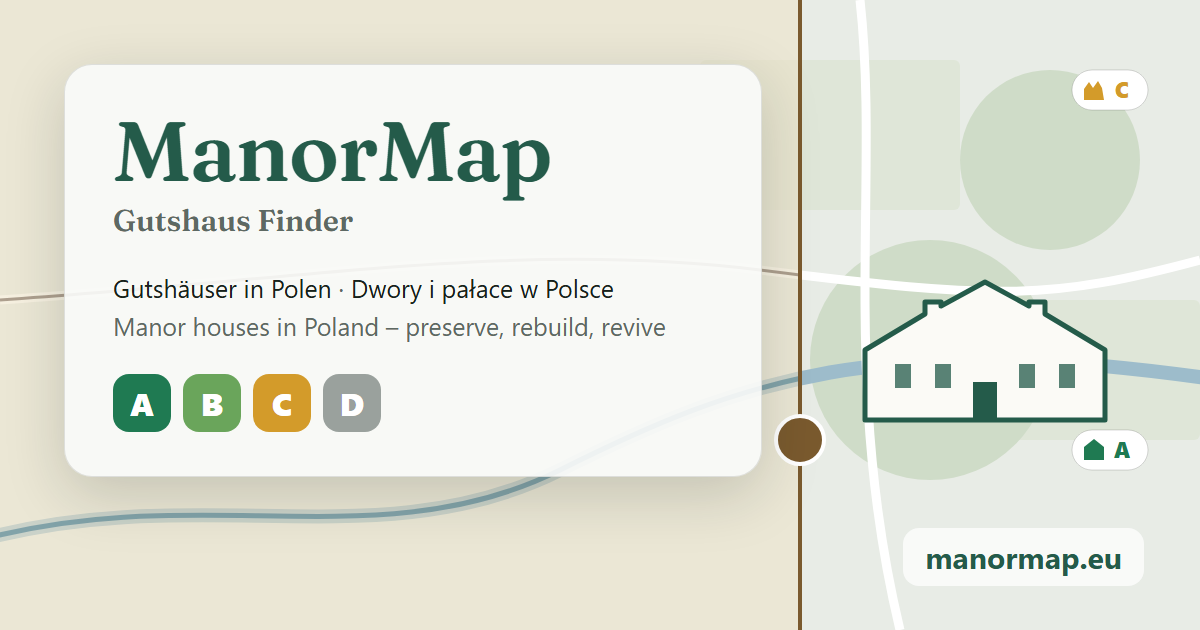
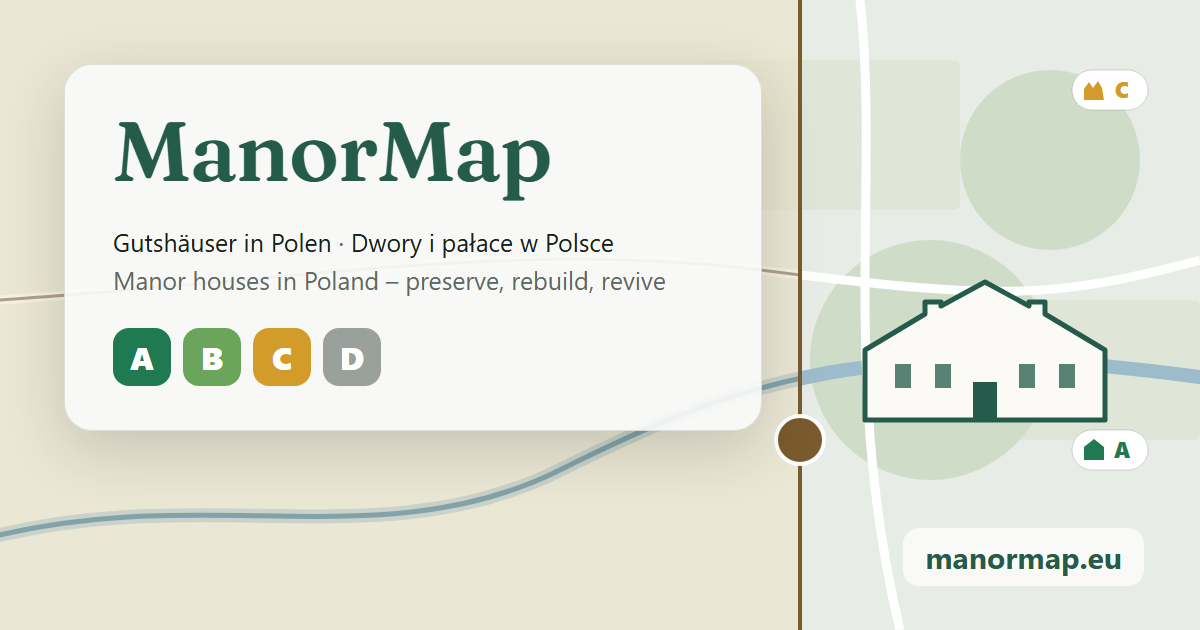
Brand: ManorMap in every language
Drops SITE_NAME_DE ("Gutshaus Finder"): site title, share title, og image,
review/index pages and the CLI all say ManorMap. The publish note about buy
buttons only appears when the shop is switched on.

Changed region(s): [[0.0308, 0.5127, 0.6475, 0.754], [0.0925, 0.3317, 0.555, 0.4825]]

diff --git a/gutshaus/site_template.html b/gutshaus/site_template.html
@@ -7,7 +7,7 @@
 <meta name="description" content="Gutshäuser in Polen bewahren, wiederaufbauen, neu beleben: Karte mit Noten für Sanierung und Wiederaufbau. Dwory i pałace w Polsce. Manor houses in Poland.">
 <meta property="og:type" content="website">
 <meta property="og:site_name" content="ManorMap">
-<meta property="og:title" content="ManorMap – Gutshaus Finder">
+<meta property="og:title" content="ManorMap">
 <meta property="og:description" content="Gutshäuser in Polen bewahren, wiederaufbauen, neu beleben · Dwory i pałace w Polsce · Manor houses in Poland">
 <meta property="og:url" content="__SITE_URL__/">
 <meta property="og:image" content="__SITE_URL__/og.png">
@@ -298,7 +298,7 @@ const T = {
 };
 // texts of the redesign (merged into T above)
 const T2 = {
- de:{share:"Teilen",copied:"Link kopiert",shareTitle:"{place} – Gutshaus Finder",offerPartial:" (davon {f} im Kataster gefunden und gezeichnet)",offerArea1:"1 Flurstück, {ha} ha – auf der Karte blau gestrichelt",offerArea:"{n} Flurstücke, {ha} ha – auf der Karte blau gestrichelt",dragHint:"Linie auf der Karte ziehen",tenderPast:"Der Ausschreibungstermin laut KOWR ({d}) ist vorbei; den nächsten Termin bei KOWR erfragen.",filtersBtn:"Filter & Liste",gradeF:"Note",close:"Schließen",cmpOn:"Damals & heute vergleichen",cmpOff:"Vergleich beenden",then:"Messtischblatt",now:"heute",
+ de:{share:"Teilen",copied:"Link kopiert",shareTitle:"{place} – ManorMap",offerPartial:" (davon {f} im Kataster gefunden und gezeichnet)",offerArea1:"1 Flurstück, {ha} ha – auf der Karte blau gestrichelt",offerArea:"{n} Flurstücke, {ha} ha – auf der Karte blau gestrichelt",dragHint:"Linie auf der Karte ziehen",tenderPast:"Der Ausschreibungstermin laut KOWR ({d}) ist vorbei; den nächsten Termin bei KOWR erfragen.",filtersBtn:"Filter & Liste",gradeF:"Note",close:"Schließen",cmpOn:"Damals & heute vergleichen",cmpOff:"Vergleich beenden",then:"Messtischblatt",now:"heute",
      onMtb:"Auf dem Messtischblatt vergleichen",lgStanding:"steht",lgRuin:"Ruine",lgLost:"verschwunden",lgUnknown:"unklar",lgVillage:"nur Dorf bekannt",deName:"deutsch"},
  pl:{share:"Udostępnij",copied:"Link skopiowany",shareTitle:"{place} – ManorMap",offerPartial:" (w ewidencji znaleziono i narysowano {f})",offerArea1:"1 działka, {ha} ha – na mapie niebieska linia przerywana",offerArea:"działki: {n}, {ha} ha – na mapie niebieska linia przerywana",dragHint:"Przeciągnij linię na mapie",tenderPast:"Podany przez KOWR termin przetargu ({d}) minął; o kolejny termin zapytaj KOWR.",filtersBtn:"Filtry i lista",gradeF:"Ocena",close:"Zamknij",cmpOn:"Porównaj dawniej i dziś",cmpOff:"Zakończ porównanie",then:"Messtischblatt",now:"dziś",
      onMtb:"Porównaj z mapą Messtischblatt",lgStanding:"istnieje",lgRuin:"ruina",lgLost:"nie istnieje",lgUnknown:"nieustalony",lgVillage:"znana tylko wieś",deName:"niem."},
@@ -637,8 +637,7 @@ $("sheetbtn").onclick = () => { const o = $("side").classList.toggle("open"); $(
 function lang(l){
   lng = l; try{localStorage.setItem("lang", l)}catch(e){}
   document.documentElement.lang = l;
-  const name = l === "de" ? (C.name_de || C.name) : C.name;  // German product name on the German site
-  $("title").textContent = name; document.title = name;
+  $("title").textContent = C.name; document.title = C.name;
   document.querySelectorAll("[data-t]").forEach(e => e.innerHTML = t(e.dataset.t));
   if(C.shop) document.querySelectorAll('[data-t="what"]').forEach(e => e.innerHTML += t("whatShop"));
   document.querySelectorAll("[data-tp]").forEach(e => { e.placeholder = t(e.dataset.tp); e.setAttribute("aria-label", t(e.dataset.tp)); });

diff --git a/gutshaus/review_template.html b/gutshaus/review_template.html
@@ -3,7 +3,7 @@
 <head>
 <meta charset="utf-8">
 <meta name="viewport" content="width=device-width, initial-scale=1">
-<title>Gutshaus-Finder · __TITLE__</title>
+<title>ManorMap · __TITLE__</title>
 <link rel="stylesheet" href="https://unpkg.com/leaflet@1.9.4/dist/leaflet.css">
 <script src="https://unpkg.com/leaflet@1.9.4/dist/leaflet.js"></script>
 <style>
@@ -64,7 +64,7 @@
 <body>
 <div id="side">
   <header>
-    <h1>Gutshaus-Finder <a id="home" class="sub" style="font:13px sans-serif;float:right;margin-top:3px;color:var(--accent);display:none">← All results</a></h1>
+    <h1>ManorMap <a id="home" class="sub" style="font:13px sans-serif;float:right;margin-top:3px;color:var(--accent);display:none">← All results</a></h1>
     <div class="sub" id="subtitle"></div>
   </header>
   <div class="tabs"><button data-tab="sites" class="on">Sites</button><button data-tab="weights">Weights</button><button data-tab="filters">Filters</button></div>

diff --git a/gutshaus/static/og_source.html b/gutshaus/static/og_source.html
@@ -52,7 +52,6 @@ h1{margin:0;font:600 84px/1 "Fraunces",Georgia,serif;color:#245b4a;letter-spacin
 </svg>
 <div class="panel">
   <h1>ManorMap</h1>
-  <p class="sub">Gutshaus Finder</p>
   <p class="lines">Gutshäuser in Polen <span>·</span> Dwory i pałace w Polsce<br><span>Manor houses in Poland – preserve, rebuild, revive</span></p>
   <div class="grades"><div class="g" style="background:#1f7a52">A</div><div class="g" style="background:#6aa55b">B</div><div class="g" style="background:#d39b2a">C</div><div class="g" style="background:#9aa19d">D</div></div>
 </div>

diff --git a/gutshaus/index_template.html b/gutshaus/index_template.html
@@ -3,7 +3,7 @@
 <head>
 <meta charset="utf-8">
 <meta name="viewport" content="width=device-width, initial-scale=1">
-<title>Gutshaus-Finder · results</title>
+<title>ManorMap · results</title>
 <style>
   :root { --ink:#1d2321; --muted:#6b736f; --line:#e2e0da; --bg:#faf8f4; --accent:#33505f; }
   * { box-sizing:border-box; }
@@ -38,7 +38,7 @@
 </head>
 <body>
 <main>
-  <h1>Gutshaus-Finder</h1>
+  <h1>ManorMap</h1>
   <div class="sub" id="status"></div>
 
   <div class="hero">

diff --git a/gutshaus/config.py b/gutshaus/config.py
@@ -184,7 +184,7 @@ MAX_PARCEL_HA = 30
 
 # --- Network ----------------------------------------------------------------
 HTTP_TIMEOUT = (15, 180)   # (connect, read) seconds
-USER_AGENT = "gutshaus-finder/0.2 (+https://github.com/kygobae/manormap)"
+USER_AGENT = "manormap/0.2 (+https://github.com/kygobae/manormap)"
 CONTEXT_BATCH = 40           # candidates per Overpass context query
 KOWR_MATCH_RADIUS_M = 500    # a KOWR offer this close to a site counts as "for sale"
 # Surroundings of one site (dossier): kind -> search radius in metres. Everyday services, and what may disturb
@@ -275,10 +275,8 @@ WEB_ANALYTICS_AUTO = False
 LEGAL_NOTICE: list = []
 DOSSIER_PRICE = "49 €"
 # Public site and shop (set in gutshaus.json; placeholders until you have them)
-# Brand: ManorMap is the umbrella name (site title in PL/EN, legal page); "Gutshaus Finder"
-# stays the German product name (German site title, dossier).
+# Brand: ManorMap in every language (site, legal page, dossier)
 SITE_NAME = "ManorMap"
-SITE_NAME_DE = "Gutshaus Finder"
 SITE_URL = "https://manormap.eu"
 # Lemon Squeezy checkout link of the dossier variant, e.g. https://yourstore.lemonsqueezy.com/checkout/buy/<variant-uuid>
 # (the site adds ?checkout[custom][dossier]=GF-XXXXXXXX)

diff --git a/gutshaus/cli.py b/gutshaus/cli.py
@@ -1,4 +1,4 @@
-"""Gutshaus-Finder command line.
+"""ManorMap command line.
 
   gutshaus osm-extract                download + extract the Poland OSM file once (recommended)
   gutshaus check                      test the data services from this machine
@@ -333,8 +333,8 @@ def cmd_publish(args):
     out = Path(args.out or root / "site")
     n = publish.publish(sites, out, reserved, root / "_kowr.json", Path(args.sample) if args.sample else None)
     print(f"{n['villages']} villages, {n['sites']} sites ({len(reserved)} reserved) -> {out / 'public' / 'index.html'}")
-    if not config.CHECKOUT_URL:
-        print("Note: CHECKOUT_URL is not set in gutshaus.json, so buy buttons fall back to e-mail.")
+    if config.SHOP_ENABLED and not config.CHECKOUT_URL:
+        print("Note: SHOP_ENABLED is on but CHECKOUT_URL is not set, so buy buttons fall back to e-mail.")
 
 
 def main(argv=None):

diff --git a/gutshaus/publish.py b/gutshaus/publish.py
@@ -189,7 +189,7 @@ def publish(sites: list[dict], out: Path, reserved: set[str] = frozenset(), kowr
     pub.mkdir(parents=True)
     vs = villages(sites, reserved)
     data = {"villages": vs, "kowr": offers(sites, kowr_json),
-            "cfg": {"name": config.SITE_NAME, "name_de": config.SITE_NAME_DE, "url": config.SITE_URL, "price": config.DOSSIER_PRICE,
+            "cfg": {"name": config.SITE_NAME, "url": config.SITE_URL, "price": config.DOSSIER_PRICE,
                     "checkout": config.CHECKOUT_URL, "email": config.CONTACT_EMAIL,
                     "status_de": STATUS_DE, "sample": bool(sample_pdf) and config.SHOP_ENABLED,
                     "shop": bool(config.SHOP_ENABLED), "refs": config.REFERENCE_POINTS}}

diff --git a/README.md b/README.md
@@ -1,4 +1,4 @@
-# ManorMap (Gutshaus Finder)
+# ManorMap
 
 Finds former manor-house sites in Poland (dwory, pałace, Gutshäuser of the pre-1945 estates) and ranks them by how suitable they are for **building a new house where the old manor stood**. Ranking criteria: the manor is gone but its park survives, a power line and a public road are close, neighbouring buildings suggest water and sewer connections, the land is not forest, there is no strict nature protection, and the parcel is a sensible size.
 

diff --git a/CLAUDE.md b/CLAUDE.md
@@ -1,4 +1,4 @@
-# ManorMap (Gutshaus Finder): notes for AI coding assistants
+# ManorMap: notes for AI coding assistants
 
 Open-source tool that finds former manor-house sites (dwory, pałace, Gutshäuser) in Poland and ranks them by how suitable they are for building a new house: manor gone, park, utilities, road access, nature protection, land use and parcel size.
 
